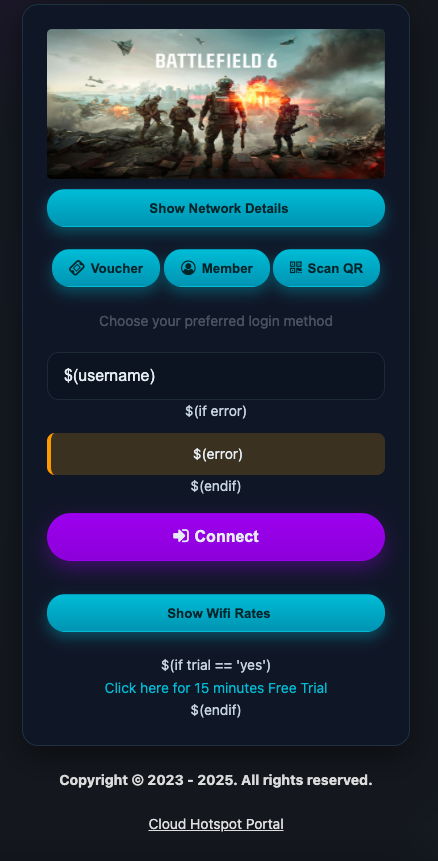
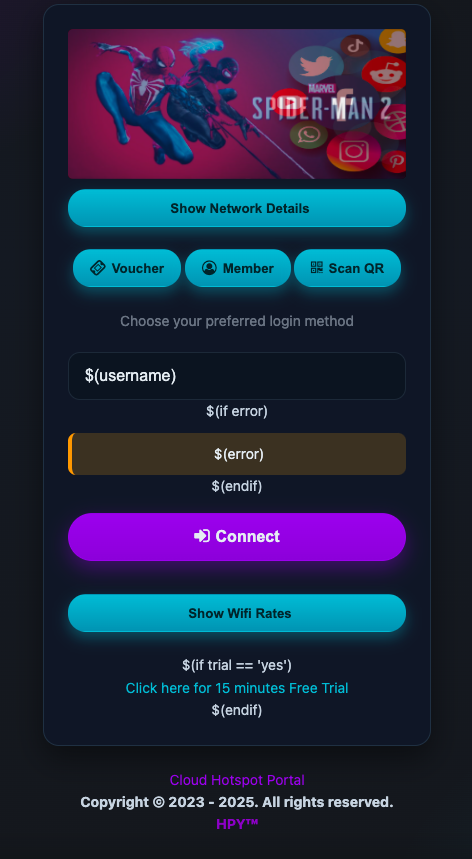
Updated Horizon login and status page screenshot

diff --git a/README.md b/README.md
@@ -83,12 +83,12 @@
 > Actual raw and live screenshots
 
 - **Login Raw Page**  
-  ![Login Page](screenshot/xmas-theme/login-page.png)
+  ![Login Page](hpy-git/myTheme/screenshot/horizon/horizon_login.png)
 
 - **Login Actual Live Page**  
 
 - **Status Raw Page**  
-  ![Status Page](screenshot/xmas-theme/status-page.png)
+  ![Status Page](hpy-git/myTheme/screenshot/horizon/horizon_status.png)
 
   - **Status Actual Live Page**  
 
